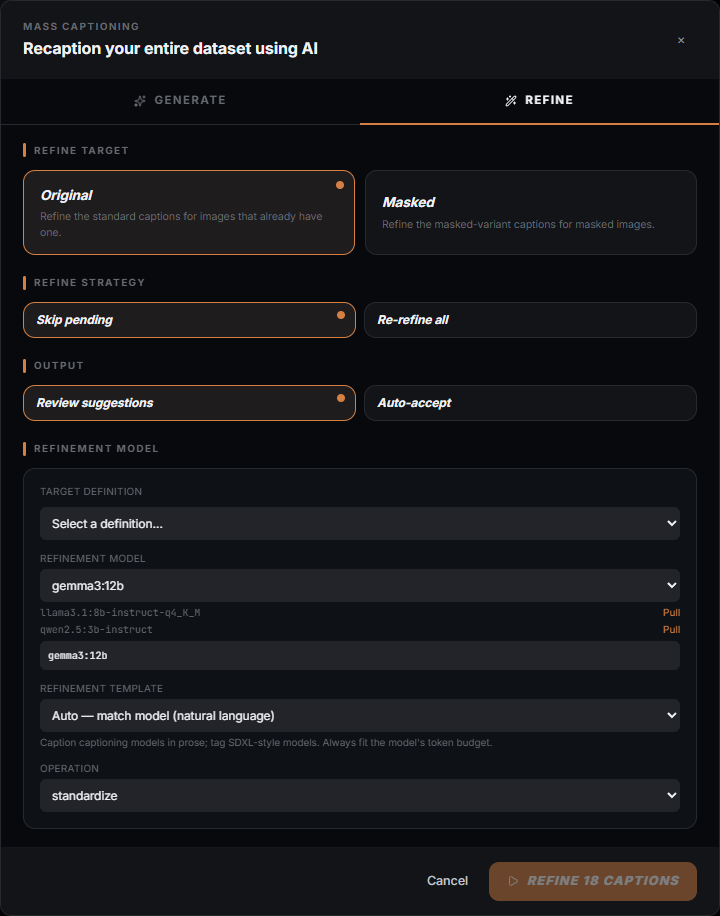
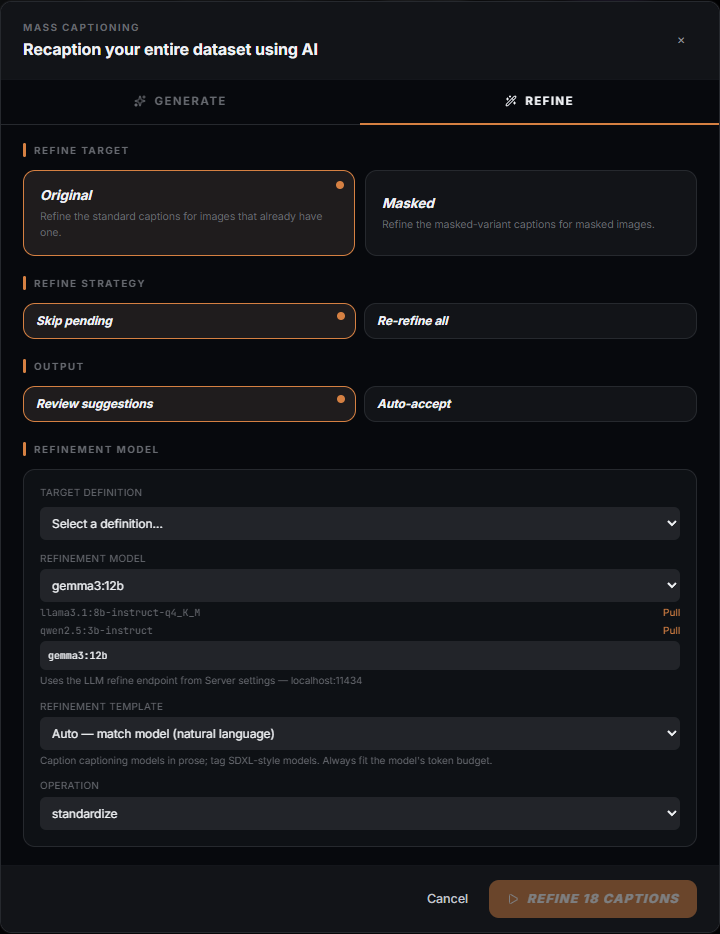
docs: stamp the shipped docs and re-shoot the four frames the code moved under them (LANE-103)
The docs gate could not block a release on a stale CLAIM, only on a stale image: no
shipped doc carried a saved_at stamp, so the REWRITE half was inert and a newly shipped
family missing from the README came back merely UNVERIFIED. The tool half of the fix
lives in _harness/ (untracked); this is the content half it measures.

- training-guide: the MiniMax H3 paragraph said all three definitions were gated. Two
  are: minimax-h3-t2va is offered since fc965b5f, fl2va and ref2va are not.
- training-guide: the generated schema-explainers VIDEO block was regenerated, adding
  cfg_augment_scale, sigma_shift_audio and sigma_shift_video and replacing three
  "From the schema:" stubs with the real help text.
- four frames re-shot against the running SPA, each because the surface it depicts
  actually changed: the mass-caption modal (both states), the template caption editor
  and the details-mode overview.

The other 23 frames were NOT re-shot. The first measurement said 12 must be, which did
not survive being questioned: 8 of those rows were spurious, fired by dependency
granularity rather than by any change to what the frame shows. They are waived at the
pre-tag commit instead, and the residual -- evidence that merely repeats its own stamp
proves nothing -- is recorded on the lane for VERIFY.

README.md and SECURITY.md stay deliberately unstamped: no signed UAT item covers either,
and a stamp asserted without one is the defect this lane exists to remove.

diff --git a/docs/training-guide.md b/docs/training-guide.md
@@ -75,8 +75,10 @@ concrete checkpoint from that family's YAML. A family is an architecture with
 its own loader, driver, trainer, sampler and saver; a definition is one
 shipped checkpoint of it. The dropdown only enumerates definitions that have
 cleared their availability gate; the Server screen's model count includes
-gated ones too (currently the MiniMax H3 definitions), so it will read
-higher than what you can actually pick here. Also on this card: the
+gated ones too (currently two of the three MiniMax H3 definitions — text-to-
+video+audio is offered, first/last-frame-to-video and reference-to-video are
+not), so it will read higher than what you can actually pick here. Also on
+this card: the
 **quantization backend** and **quantization** level for the base model, and
 the same pair for the text encoder — quantizing either trades reduced weight
 memory for compute and fidelity effects that vary by backend and model, and
@@ -466,7 +468,8 @@ this list.
 ### Video Settings
 
 <!-- schema-explainers:VIDEO start -->
-- **Audio Loss Weight** (`audio_loss_weight`) — From the schema: Relative weight of the audio loss term. Default `1.0` (range 0.0 to 10.0, step 0.1).
+- **Audio Loss Weight** (`audio_loss_weight`) — Relative weight of the audio loss term in the total loss. Default `1.0` (range 0.0 to 10.0, step 0.1).
+- **Cfg Augment Scale** (`cfg_augment_scale`) — CFG-augmented training scale: learn the guided output the sampler actually produces. 1.0 = off, empty = the model's value. *(schema: CFG-augmented training scale: the loss is taken on (out + (s-1)*out_uncond)/s so the LoRA learns what the model produces UNDER guidance at sampling time; 1.0 = off, empty = the model's own value (1.0 = off for MiniMax-H3))*. Default `None` (range 1.0 to 10.0, step 0.5).
 - **Expert Mode** (`expert_mode`) — From the schema: Which WAN 2.2 experts to train: both (dual, default) or a single noise expert (high or low) — single-expert loads ONE transformer, halving VRAM (ai-toolkit style). Default `both` (choices: `both`, `high`, `low`).
 - **Expert Swap Mode** (`expert_swap_mode`) — From the schema: Dual-expert placement: auto, swap (1 expert on GPU + pinned CPU) or resident (both on GPU). Default `auto` (choices: `auto`, `swap`, `resident`).
 - **Expert Switch Interval** (`expert_switch_interval`) — From the schema: Steps between high/low expert swaps (swap mode only). Default `1` (range 1 to 1000, step 1).
@@ -475,11 +478,13 @@ this list.
 - **I2V Image Dropout** (`i2v_image_dropout`) — From the schema: Chance of dropping the conditioning image (enables CFG for I2V). Default `0.1` (range 0.0 to 1.0, step 0.05).
 - **Max Windows** (`max_windows`) — From the schema: Upper bound on tiled windows emitted per clip. Default `10` (range 1 to 999, step 1).
 - **Num Frames** (`num_frames`) — From the schema: Max frames per clip (snapped to the family's frame rule at runtime). Default `81` (range 1 to 257, step 1).
+- **Sigma Shift Audio** (`sigma_shift_audio`) — Audio sigma shift of the flow-matching schedule, coupled to the video clock. Empty = the model's own value. *(schema: Audio sigma shift of the flow-matching schedule, coupled to the video clock through one shared draw (empty = the model's own value, e.g. 3.0 for MiniMax-H3))*. Default `None` (range 0.1 to 50.0, step 0.5).
+- **Sigma Shift Video** (`sigma_shift_video`) — Video sigma shift of the flow-matching schedule. Empty = the model's own value. *(schema: Video sigma shift of the flow-matching schedule (empty = the model's own value, e.g. 12.0 for MiniMax-H3))*. Default `None` (range 0.1 to 50.0, step 0.5).
 - **Sliding Max Clip Seconds** (`sliding_max_clip_seconds`) — From the schema: Sliding mode: clips longer than this (seconds) fall back to tiled windows instead of one full-clip latent (0 = no limit; the frame ladder still caps the cached length). Default `0.0` (min 0.0, step 1.0).
 - **Still Resolutions** (`still_resolutions`) — From the schema: Resolutions for F=1 STILL images when mixing stills + video datasets in one video job. Empty list means INHERIT from `resolutions`. Lets stills train at higher resolution than the video buckets for extra detail. Default `[]`.
 - **Target Fps** (`target_fps`) — From the schema: Training frame rate (0 = use the model's native fps). Default `0` (range 0.0 to 60.0, step 1.0).
 - **Temporal Coverage** (`temporal_coverage`) — From the schema: How the LoRA sees the whole clip: first (opening window only, default/backward-compatible), tiled (K windows per clip across epochs), sliding (Phase 2 — full-clip cache + random slice). Default `first` (choices: `first`, `tiled`, `sliding`).
-- **Train Audio** (`train_audio`) — From the schema: Jointly train the audio stream (audio-capable models only). Default `False`.
+- **Train Audio** (`train_audio`) — Jointly train the audio stream of an audio-capable video model. *(schema: Jointly train the audio stream (audio-capable models only))*. Default `False`.
 - **Video Mode** (`video_mode`) — From the schema: Text-to-video or image-to-video (first-frame conditioning). Default `t2v` (choices: `t2v`, `i2v`).
 - **Window Overlap** (`window_overlap`) — From the schema: Fractional overlap between tiled windows (0 = abutting). Default `0.0` (range 0.0 to 0.95, step 0.05).
 <!-- schema-explainers:VIDEO end -->

diff --git a/README.md b/README.md
@@ -611,10 +611,13 @@ This table is generated from `backend/app/engine/models/families/` and pinned by
 - **Edit / paired-image training** — two-image (control → target) edit datasets
   and captioning for instruction-edit models (Flux.1 Kontext, Qwen-Image-Edit):
   paired-pair production, two-image VLM captioning, and edit-aware training.
-- **Video training** — LoRA training for video diffusion models: **WAN 2.1**
-  (T2V / I2V), **WAN 2.2** (dual high/low-noise experts, single-run
-  auto-switch, dual LoRA output), and **LTX 2.3** (T2V / I2V, optional joint
-  audio). Backed by a video dataset-curation layer: lazy clip preview,
+- **Video training** — LoRA training for every family in the **Video** table
+  above — **MiniMax H3** (joint video + audio) and **LTX 2.5** among them.
+  That table is generated from `backend/app/engine/models/families/` and
+  pinned by a test, so it, not this sentence, is the authoritative list of
+  which definitions each family ships and which are still gated; per-family
+  mechanism detail (WAN 2.2's dual noise experts, LTX's optional joint audio)
+  is in `docs/ARCHITECTURE.md`. Backed by a video dataset-curation layer: lazy clip preview,
   LosslessCut cutlist import, scene-detect auto-split, non-destructive in-app
   trim, per-clip health checks, and multi-frame auto-captioning.
 
